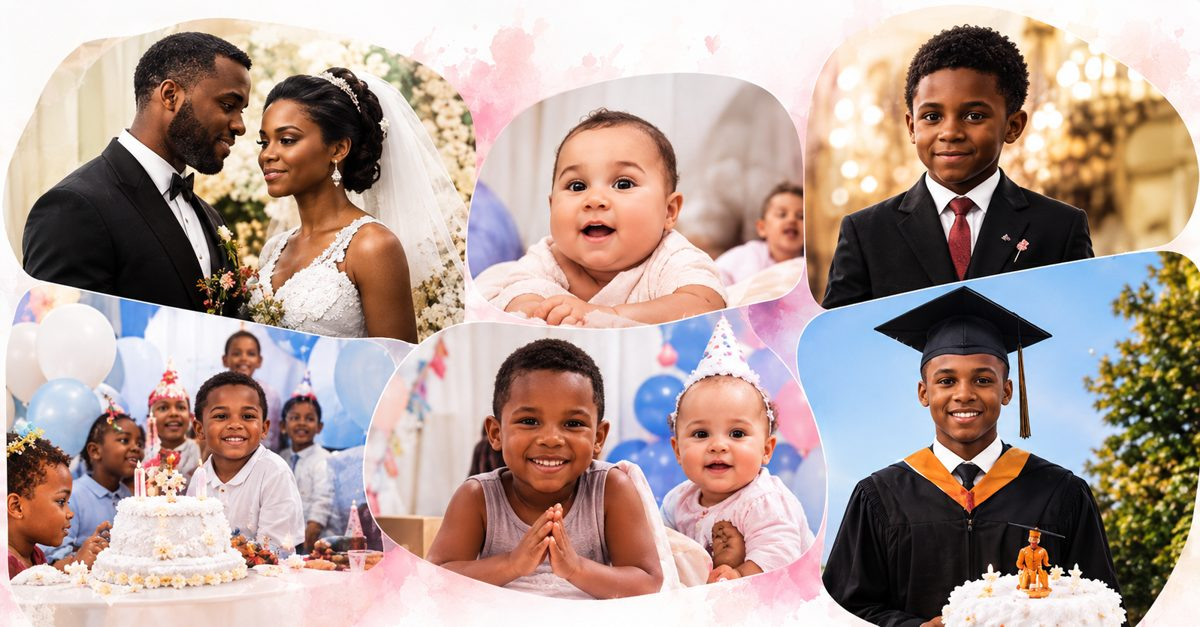
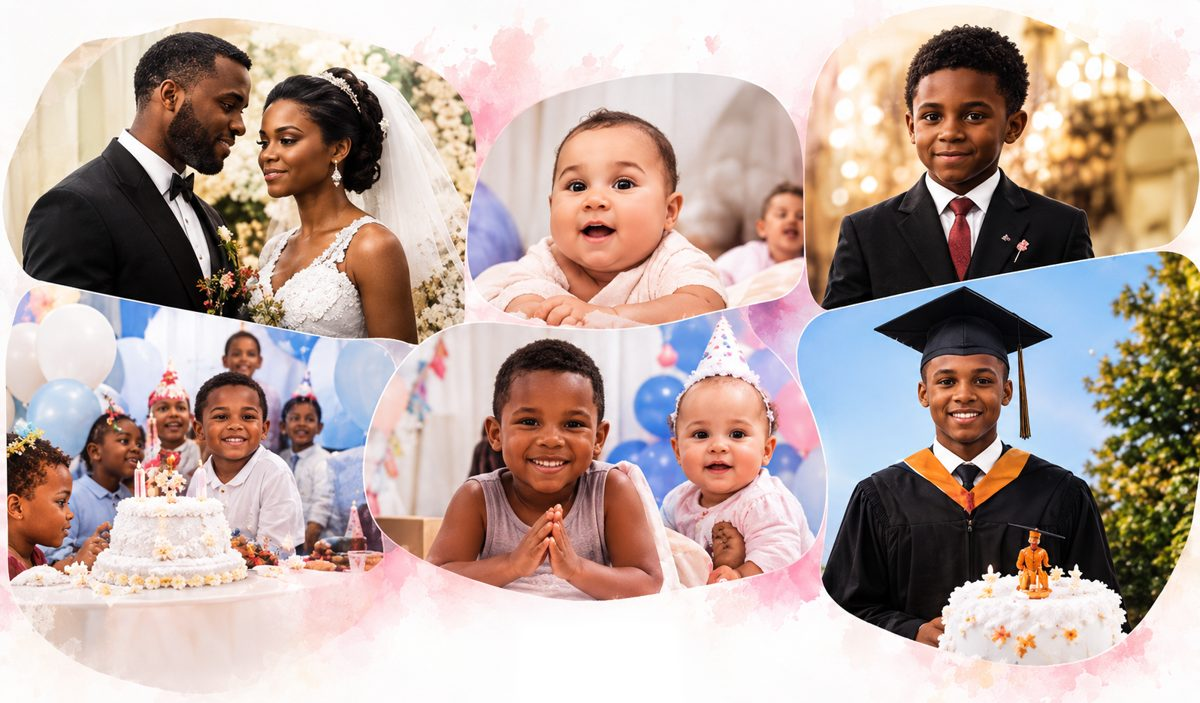
Accueil : collage recadré sans couper les gâteaux, fondus réduits
Claude-Session: https://claude.ai/code/session_01DZD1fyPbKcUBTkn1qnKi7H

diff --git a/public/css/app.css b/public/css/app.css
@@ -285,12 +285,12 @@ textarea { min-height: 110px; resize: vertical; }
 .hero-collage {
   display: block; width: calc(100% + 32px); max-width: none; margin: -16px -16px 0;
   mix-blend-mode: multiply;
-  -webkit-mask-image: linear-gradient(to bottom, transparent 0, #000 7%, #000 76%, transparent 100%), linear-gradient(to right, transparent 0, #000 5%, #000 95%, transparent 100%);
+  -webkit-mask-image: linear-gradient(to bottom, transparent 0, #000 5%, #000 90%, transparent 100%), linear-gradient(to right, transparent 0, #000 2%, #000 98%, transparent 100%);
   -webkit-mask-composite: source-in;
-  mask-image: linear-gradient(to bottom, transparent 0, #000 7%, #000 76%, transparent 100%), linear-gradient(to right, transparent 0, #000 5%, #000 95%, transparent 100%);
+  mask-image: linear-gradient(to bottom, transparent 0, #000 5%, #000 90%, transparent 100%), linear-gradient(to right, transparent 0, #000 2%, #000 98%, transparent 100%);
   mask-composite: intersect;
 }
-.hero-collage + p .logo-lg { margin-top: -18px; position: relative; }
+.hero-collage + p .logo-lg { margin-top: -34px; position: relative; }
 @media (min-width: 520px) { .hero-collage { border-radius: 0 0 32px 32px; } }
 .features i svg { display: block; }
 .socials button { display: flex; align-items: center; justify-content: center; }

diff --git a/public/index.html b/public/index.html
@@ -6,14 +6,14 @@
   <meta name="theme-color" content="#d81f4f">
   <link rel="preconnect" href="https://fonts.googleapis.com">
   <link rel="stylesheet" href="https://fonts.googleapis.com/css2?family=Fraunces:ital,wght@0,400;0,600;0,700;1,400&family=Inter:wght@400;600;800&display=swap">
-  <link rel="stylesheet" href="/css/app.css?v=12">
+  <link rel="stylesheet" href="/css/app.css?v=13">
   <link rel="icon" href="/img/logo.png" type="image/png">
   <title>EverMoments — Vos événements, ensemble</title>
   <meta name="description" content="Créez votre événement, partagez le faire-part et invitez vos proches.">
 </head>
 <body>
   <main class="container" style="max-width:480px">
-    <img class="hero-collage" src="/img/maquette/collage.jpg" alt="Mariage, baptême, anniversaire, remise de diplôme : tous vos moments">
+    <img class="hero-collage" src="/img/maquette/collage.jpg?v=2" alt="Mariage, baptême, anniversaire, remise de diplôme : tous vos moments">
 
     <p style="text-align:center;margin:0">
       <span class="logo logo-lg"><img src="/img/logo.png" alt=""><span>Ever<b>Moments</b></span></span>

diff --git a/public/faire-part.html b/public/faire-part.html
@@ -6,7 +6,7 @@
   <meta name="theme-color" content="#d81f4f">
   <link rel="preconnect" href="https://fonts.googleapis.com">
   <link rel="stylesheet" href="https://fonts.googleapis.com/css2?family=Fraunces:ital,wght@0,400;0,600;0,700;1,400&family=Great+Vibes&family=Inter:wght@400;600;800&display=swap">
-  <link rel="stylesheet" href="/css/app.css?v=12">
+  <link rel="stylesheet" href="/css/app.css?v=13">
   <link rel="stylesheet" href="/css/invitation.css?v=6">
   <link rel="icon" href="/img/logo.png" type="image/png">
   <title>Mes faire-part — EverMoments</title>

diff --git a/public/edit.html b/public/edit.html
@@ -6,7 +6,7 @@
   <meta name="theme-color" content="#d81f4f">
   <link rel="preconnect" href="https://fonts.googleapis.com">
   <link rel="stylesheet" href="https://fonts.googleapis.com/css2?family=Fraunces:ital,wght@0,400;0,600;0,700;1,400&family=Great+Vibes&family=Inter:wght@400;600;800&display=swap">
-  <link rel="stylesheet" href="/css/app.css?v=12">
+  <link rel="stylesheet" href="/css/app.css?v=13">
   <link rel="icon" href="/img/logo.png" type="image/png">
   <link rel="stylesheet" href="/css/invitation.css?v=6">
   <title>Événement</title>

diff --git a/public/event.html b/public/event.html
@@ -6,7 +6,7 @@
   <meta name="theme-color" content="#d81f4f">
   <link rel="preconnect" href="https://fonts.googleapis.com">
   <link rel="stylesheet" href="https://fonts.googleapis.com/css2?family=Fraunces:ital,wght@0,400;0,600;0,700;1,400&family=Great+Vibes&family=Inter:wght@400;600;800&display=swap">
-  <link rel="stylesheet" href="/css/app.css?v=12">
+  <link rel="stylesheet" href="/css/app.css?v=13">
   <link rel="icon" href="/img/logo.png" type="image/png">
   <link rel="stylesheet" href="/css/invitation.css?v=6">
   <!--META-->

diff --git a/public/cgu.html b/public/cgu.html
@@ -6,7 +6,7 @@
   <meta name="theme-color" content="#d81f4f">
   <link rel="preconnect" href="https://fonts.googleapis.com">
   <link rel="stylesheet" href="https://fonts.googleapis.com/css2?family=Fraunces:ital,wght@0,400;0,600;0,700;1,400&family=Inter:wght@400;600;800&display=swap">
-  <link rel="stylesheet" href="/css/app.css?v=12">
+  <link rel="stylesheet" href="/css/app.css?v=13">
   <link rel="icon" href="/img/logo.png" type="image/png">
   <title>Conditions générales d'utilisation — EverMoments</title>
 </head>

diff --git a/public/confidentialite.html b/public/confidentialite.html
@@ -6,7 +6,7 @@
   <meta name="theme-color" content="#d81f4f">
   <link rel="preconnect" href="https://fonts.googleapis.com">
   <link rel="stylesheet" href="https://fonts.googleapis.com/css2?family=Fraunces:ital,wght@0,400;0,600;0,700;1,400&family=Inter:wght@400;600;800&display=swap">
-  <link rel="stylesheet" href="/css/app.css?v=12">
+  <link rel="stylesheet" href="/css/app.css?v=13">
   <link rel="icon" href="/img/logo.png" type="image/png">
   <title>Politique de confidentialité — EverMoments</title>
 </head>

diff --git a/public/mentions-legales.html b/public/mentions-legales.html
@@ -6,7 +6,7 @@
   <meta name="theme-color" content="#d81f4f">
   <link rel="preconnect" href="https://fonts.googleapis.com">
   <link rel="stylesheet" href="https://fonts.googleapis.com/css2?family=Fraunces:ital,wght@0,400;0,600;0,700;1,400&family=Inter:wght@400;600;800&display=swap">
-  <link rel="stylesheet" href="/css/app.css?v=12">
+  <link rel="stylesheet" href="/css/app.css?v=13">
   <link rel="icon" href="/img/logo.png" type="image/png">
   <title>Mentions légales — EverMoments</title>
 </head>

diff --git a/public/decouvrir.html b/public/decouvrir.html
@@ -6,7 +6,7 @@
   <meta name="theme-color" content="#d81f4f">
   <link rel="preconnect" href="https://fonts.googleapis.com">
   <link rel="stylesheet" href="https://fonts.googleapis.com/css2?family=Fraunces:ital,wght@0,400;0,600;0,700;1,400&family=Inter:wght@400;600;800&display=swap">
-  <link rel="stylesheet" href="/css/app.css?v=12">
+  <link rel="stylesheet" href="/css/app.css?v=13">
   <link rel="icon" href="/img/logo.png" type="image/png">
   <title>Découvrir — EverMoments</title>
 </head>

diff --git a/public/connexion.html b/public/connexion.html
@@ -6,7 +6,7 @@
   <meta name="theme-color" content="#d81f4f">
   <link rel="preconnect" href="https://fonts.googleapis.com">
   <link rel="stylesheet" href="https://fonts.googleapis.com/css2?family=Fraunces:ital,wght@0,400;0,600;0,700;1,400&family=Inter:wght@400;600;800&display=swap">
-  <link rel="stylesheet" href="/css/app.css?v=12">
+  <link rel="stylesheet" href="/css/app.css?v=13">
   <link rel="icon" href="/img/logo.png" type="image/png">
   <title>EverMoments — Connexion</title>
 </head>

diff --git a/public/dashboard.html b/public/dashboard.html
@@ -6,7 +6,7 @@
   <meta name="theme-color" content="#d81f4f">
   <link rel="preconnect" href="https://fonts.googleapis.com">
   <link rel="stylesheet" href="https://fonts.googleapis.com/css2?family=Fraunces:ital,wght@0,400;0,600;0,700;1,400&family=Inter:wght@400;600;800&display=swap">
-  <link rel="stylesheet" href="/css/app.css?v=12">
+  <link rel="stylesheet" href="/css/app.css?v=13">
   <link rel="icon" href="/img/logo.png" type="image/png">
   <title>Accueil — EverMoments</title>
 </head>

diff --git a/public/profil.html b/public/profil.html
@@ -6,7 +6,7 @@
   <meta name="theme-color" content="#d81f4f">
   <link rel="preconnect" href="https://fonts.googleapis.com">
   <link rel="stylesheet" href="https://fonts.googleapis.com/css2?family=Fraunces:ital,wght@0,400;0,600;0,700;1,400&family=Inter:wght@400;600;800&display=swap">
-  <link rel="stylesheet" href="/css/app.css?v=12">
+  <link rel="stylesheet" href="/css/app.css?v=13">
   <link rel="icon" href="/img/logo.png" type="image/png">
   <title>Profil — EverMoments</title>
 </head>
